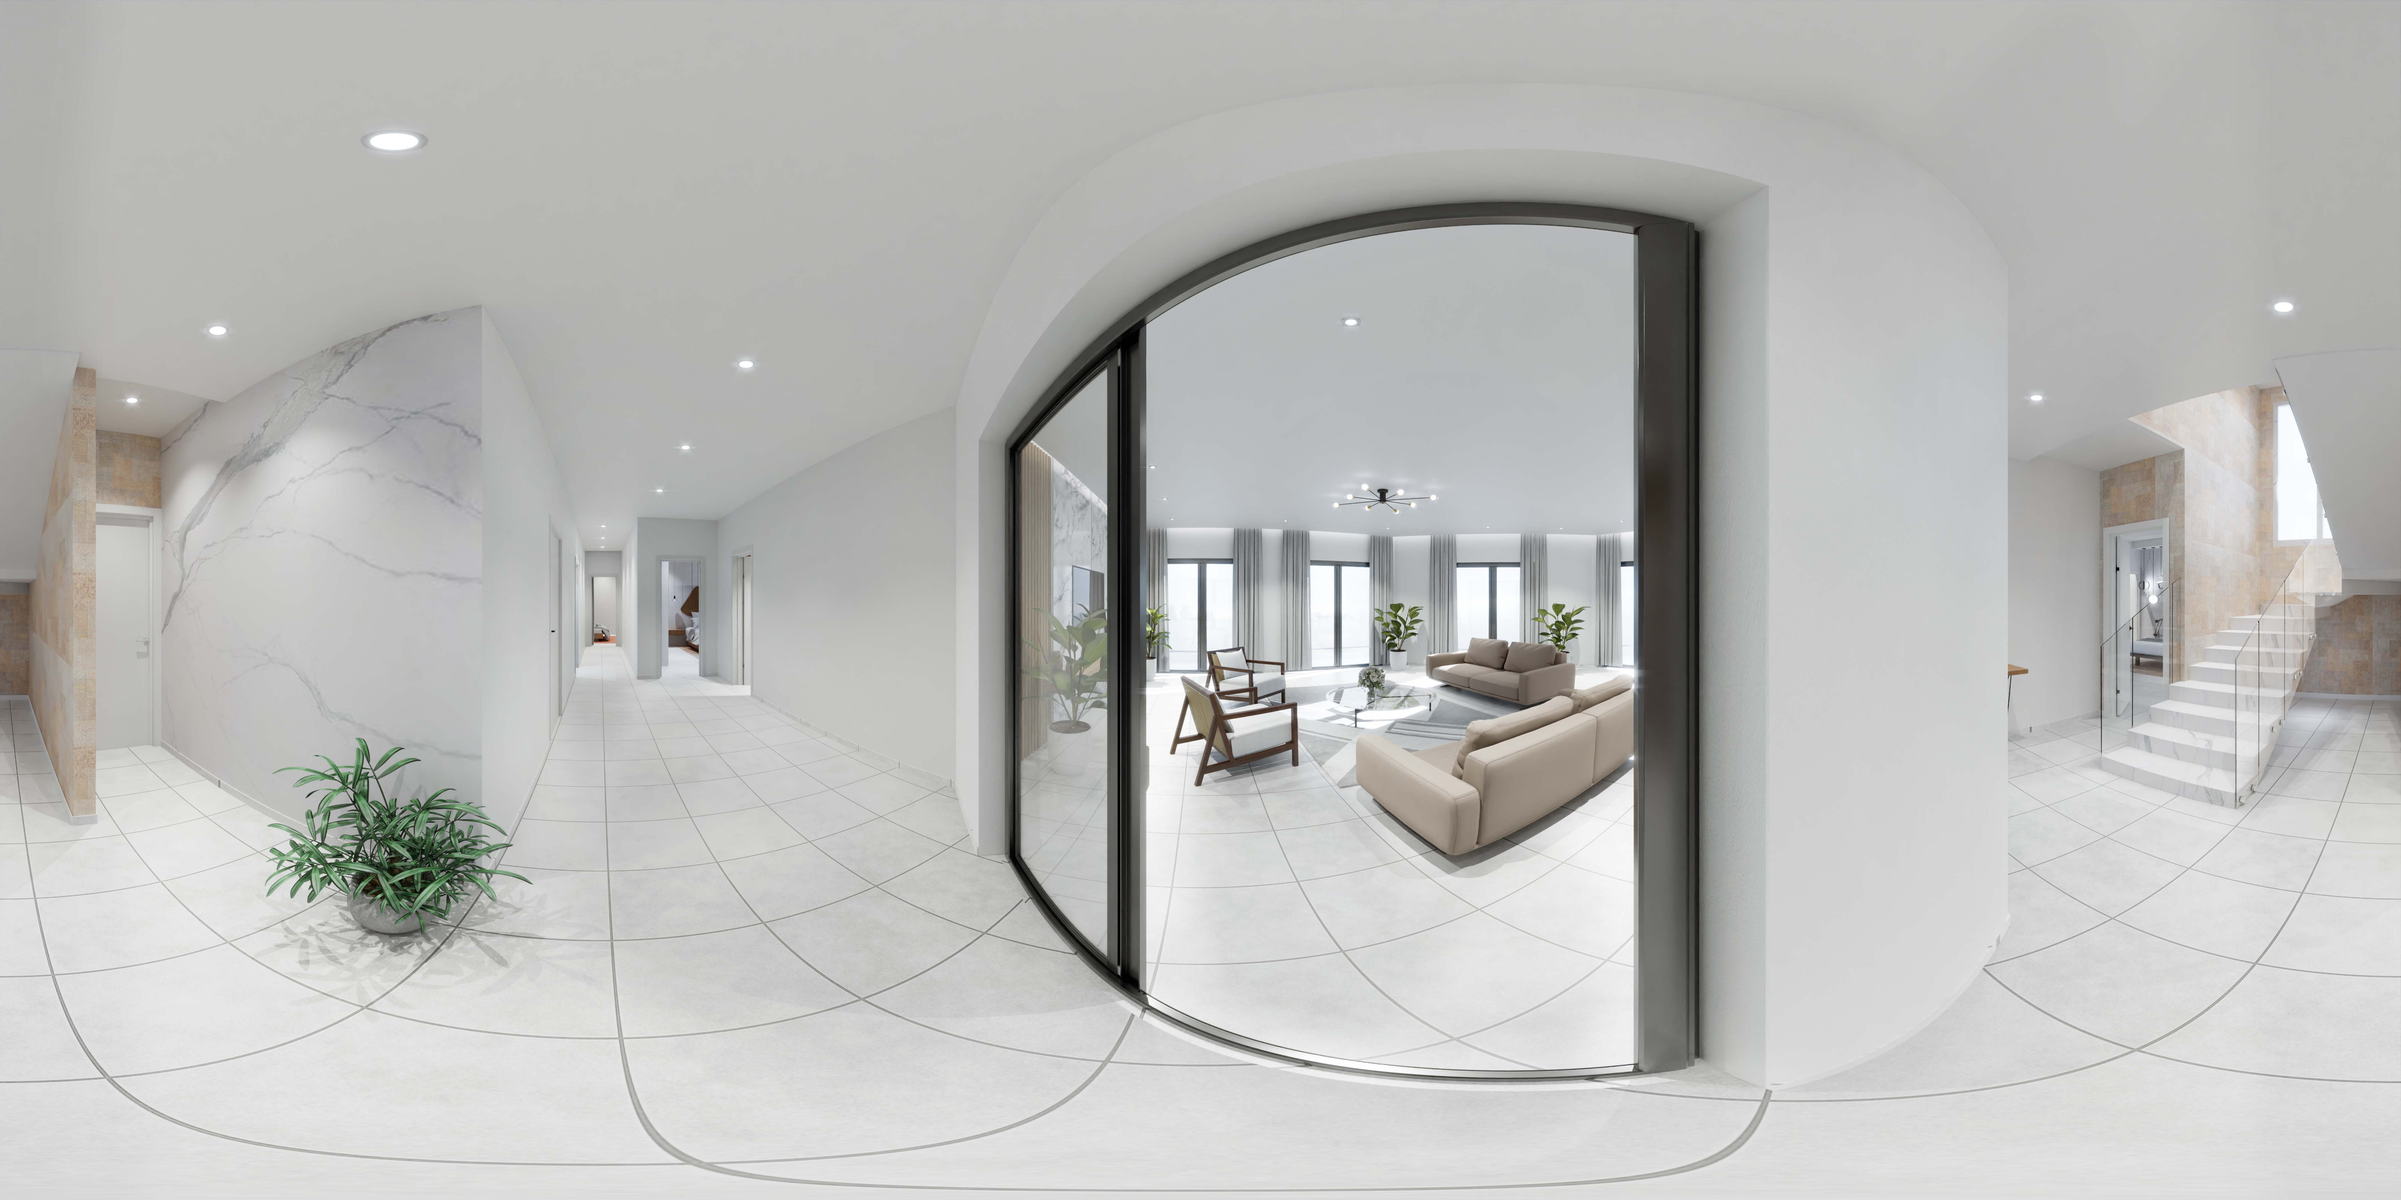
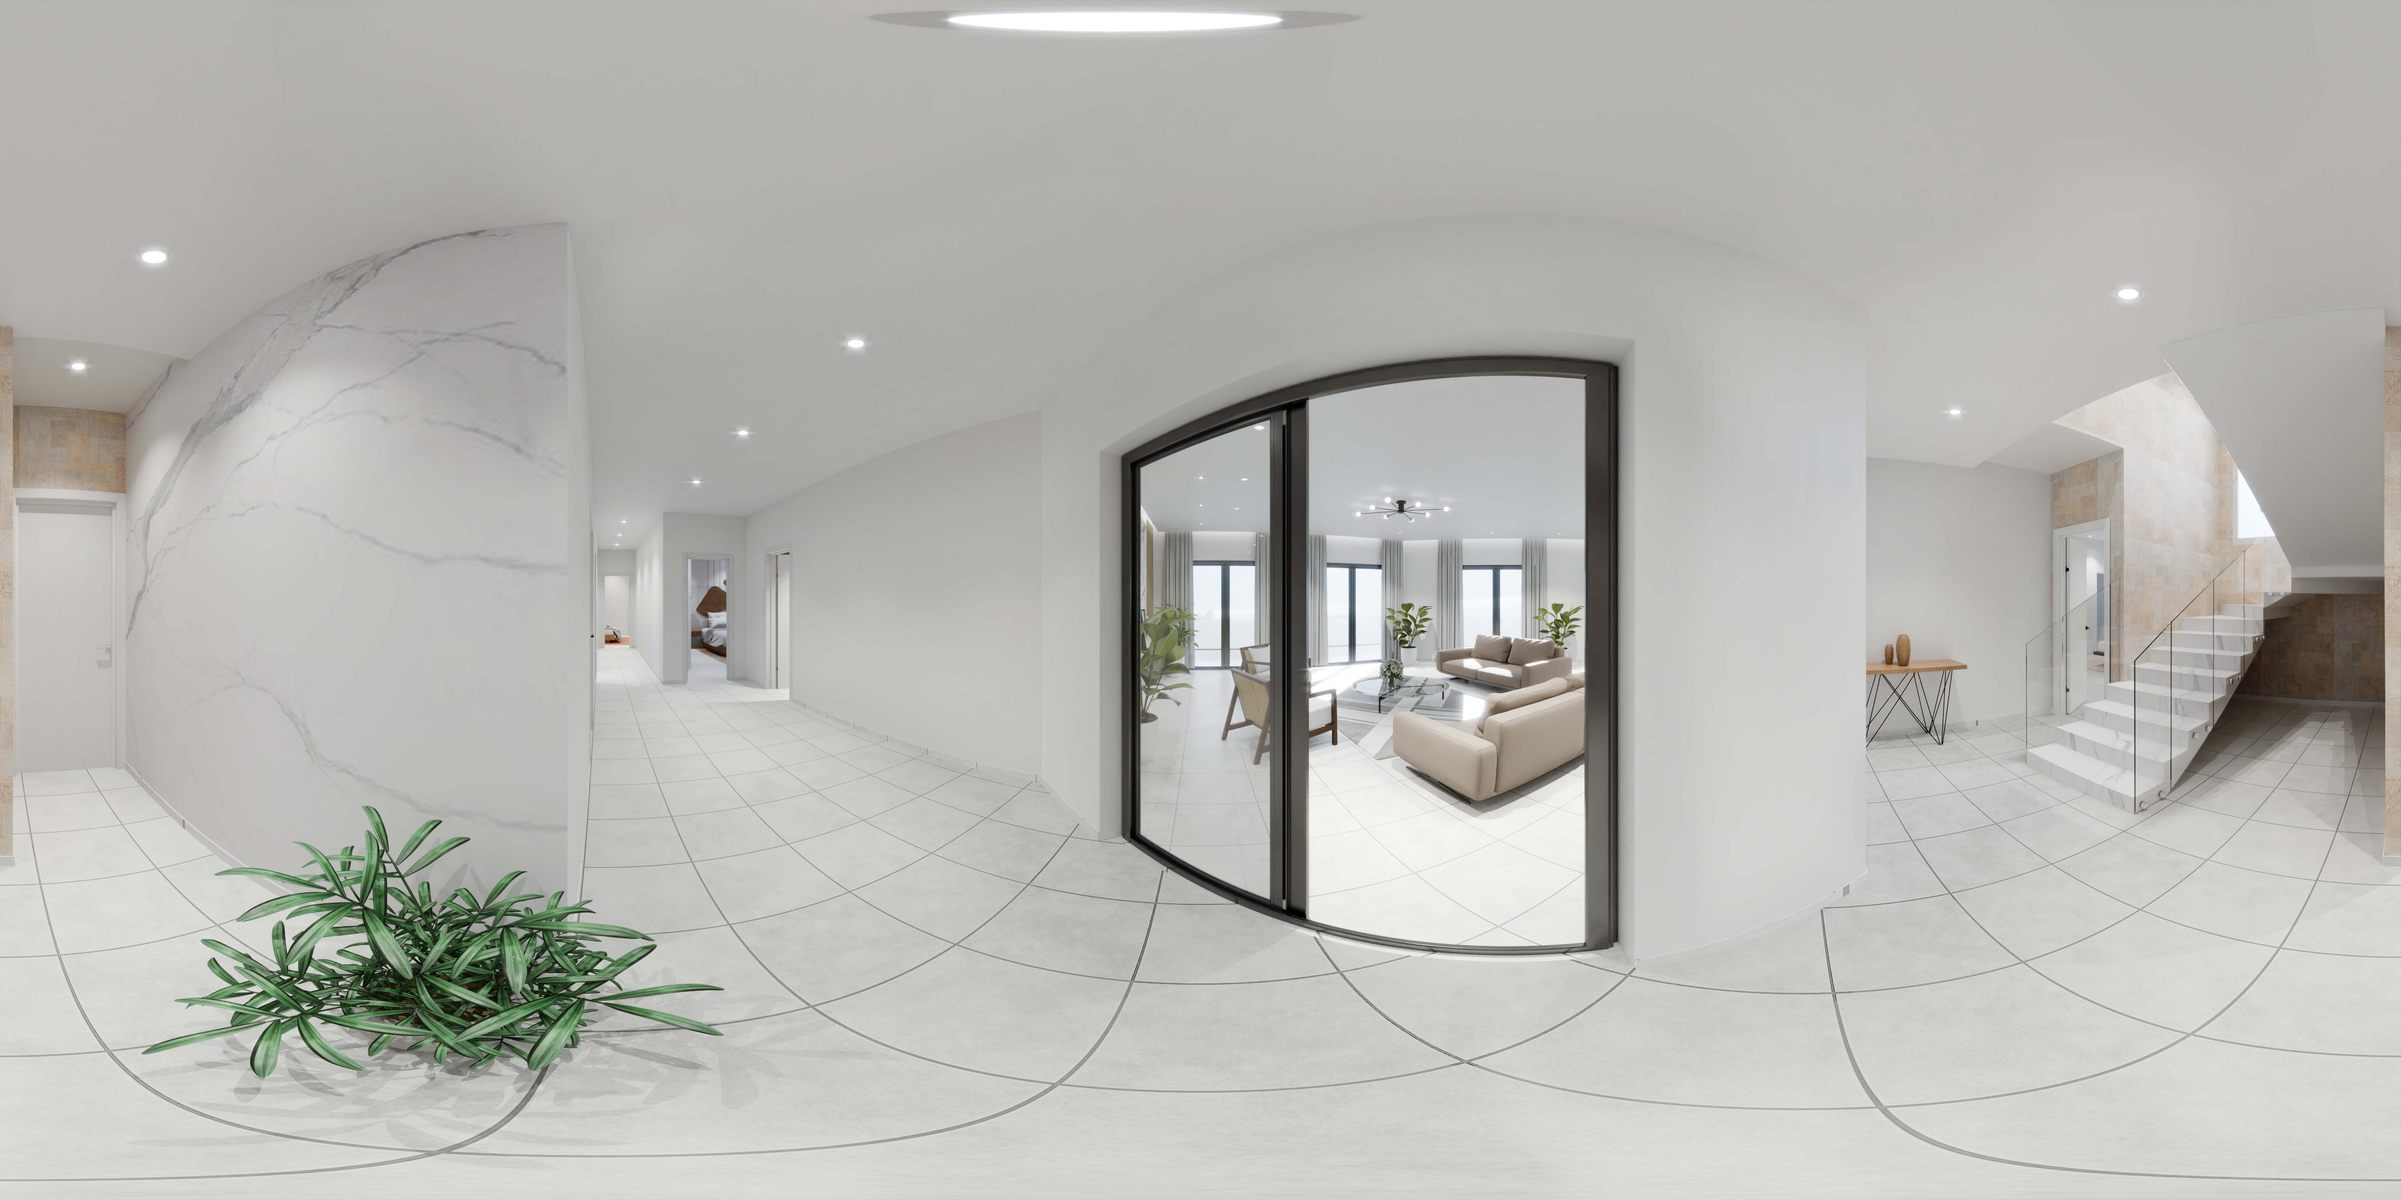
first commit-2

diff --git a/index.html b/index.html
@@ -58,16 +58,26 @@
             <img id="Scene-3" src="./Style/Images/Scene-3.jpg">
             <img id="Scene-5" src="./Style/Images/Scene-5.jpg">
             <img id="Scene-6" src="./Style/Images/Scene-6.jpg">
+            <img id="Scene-19" src="./Style/Images/Scene-19.jpg">
             <img id="Scene-7" src="./Style/Images/Scene-7.jpg">
             <img id="Scene-9" src="./Style/Images/Scene-9.jpg">
             <img id="Scene-2" src="./Style/Images/Scene-2.jpg">
             <img id="Scene-1" src="./Style/Images/Scene-1.jpg">
+            <img id="Scene-20" src="./Style/Images/Scene-20.jpg">
+            <img id="Scene-21" src="./Style/Images/Scene-21.jpg">
             <img id="Scene-0" src="./Style/Images/Scene-0.jpg">
             <img id="Scene-8" src="./Style/Images/Scene-8.jpg">
             <img id="Scene-10" src="./Style/Images/Scene-10.jpg">
             <img id="Scene-11" src="./Style/Images/Scene-11.jpg">
             <img id="Scene-12" src="./Style/Images/Scene-12.jpg">
             <img id="Scene-13" src="./Style/Images/Scene-13.jpg">
+            <img id="Scene-14" src="./Style/Images/Scene-14.jpg">
+            <img id="Scene-15" src="./Style/Images/Scene-15.jpg">
+            <img id="Scene-16" src="./Style/Images/Scene-16.jpg">
+            <img id="Scene-17" src="./Style/Images/Scene-17.jpg">
+            <img id="Scene-18" src="./Style/Images/Scene-18.jpg">
+            <img id="Scene-22" src="./Style/Images/Scene-22.jpg">
+            <img id="Scene-23" src="./Style/Images/Scene-23.jpg">
 
         </a-assets>
 
@@ -121,6 +131,8 @@
                 the_dote="Name_of_dote: Dote-3 ; Group_to_activate: Group-3 ; The_rotation: 0">
             </a-plane>
 
+
+
             <a-plane data-clickable class="Dote" material="src: #Arrow-1; transparent:true"
                 position="0.3161 -1.32277 -5.51905" rotation="-80.8414801039835 -65.88556277768363 1.1694068598620102"
                 the_dote="Name_of_dote: Dote-1 ; Group_to_activate: Group-1 ; The_rotation: 0">
@@ -133,16 +145,18 @@
 
 
             <a-plane data-clickable class="Dote" material="src: #Arrow-1; transparent:true"
-                position="-4.05265 -0.94886 -1.16242"
+                position="-4.66797 -0.94886 -2.21453"
                 rotation="-88.07278043632962 -149.2698295764577 -123.74398684558443"
                 the_dote="Name_of_dote: Dote-2 ; Group_to_activate: Group-2 ; The_rotation:  0">
             </a-plane>
 
             <a-plane data-clickable class="Dote" material="src: #Arrow-1; transparent:true"
-                position="-1.12491 -0.40403 7.31238"
+                position="-1.67936 -0.40403 6.59455"
                 rotation="-88.07278043632962 -149.2698295764577 -123.74398684558443"
                 the_dote="Name_of_dote: Dote-4 ; Group_to_activate: Group-4 ; The_rotation:  0">
             </a-plane>
+
+
 
         </a-entity>
 
@@ -169,7 +183,7 @@
             <a-plane data-clickable class="Dote" material="src: #Arrow-1; transparent:true"
                 position="-2.08959 -1.21727 4.78251"
                 rotation="-83.78762908654619 152.28473349443613 -151.38060609371968"
-                the_dote="Name_of_dote: Dote-7 ; Group_to_activate: Group-7 ; The_rotation: 0">
+                the_dote="Name_of_dote: Dote-19 ; Group_to_activate: Group-19 ; The_rotation: 0">
             </a-plane>
 
 
@@ -213,21 +227,15 @@
                 the_dote="Name_of_dote: Dote-4 ; Group_to_activate: Group-4 ; The_rotation: 0">
             </a-plane>
 
-
-            <a-plane data-clickable class="Dote" material="src: #Arrow-1; transparent:true" position="2.67948 -1 0.3136"
+            <a-plane data-clickable class="Dote" material="src: #Arrow-1; transparent:true" position="4.01139 -1 0.3136"
                 rotation="-84.11364207197563 -45.10610242167406 -18.52601734776004"
-                the_dote="Name_of_dote: Dote-8 ; Group_to_activate: Group-8 ; The_rotation: 0">
+                the_dote="Name_of_dote: Dote-13 ; Group_to_activate: Group-13 ; The_rotation: 0">
             </a-plane>
 
             <a-plane data-clickable class="Dote" material="src: #Arrow-1; transparent:true"
                 position="-0.07891 -1 6.43495" rotation="-81.24025872939455 144.21118520324768 151.9999734702561"
                 the_dote="Name_of_dote: Dote-8 ; Group_to_activate: Group-8 ; The_rotation: 0">
             </a-plane>
-
-
-
-
-
 
         </a-entity>
 
@@ -239,16 +247,10 @@
                 the_dote="Name_of_dote: Dote-7 ; Group_to_activate: Group-7 ; The_rotation: 0">
             </a-plane>
 
-
-
             <a-plane data-clickable class="Dote" material="src: #Arrow-1; transparent:true"
                 position="-1.24762 -1.7937 4.23467" rotation="-85.62854248230153 -43.51213383562011 112.84518366660589"
                 the_dote="Name_of_dote: Dote-9 ; Group_to_activate: Group-9 ; The_rotation: 0">
             </a-plane>
-
-
-
-
 
         </a-entity>
 
@@ -273,10 +275,8 @@
 
             <a-plane data-clickable class="Dote" material="src: #Arrow-1; transparent:true"
                 position="0.17115 -1.15573 3.02983" rotation="-80.53150993681773 153.48508007523517 -161.424556242363"
-                the_dote="Name_of_dote: Dote-9 ; Group_to_activate: Group-9 ; The_rotation: 0">
+                the_dote="Name_of_dote: Dote-11 ; Group_to_activate: Group-11 ; The_rotation: 0">
             </a-plane>
-
-
 
             <a-plane data-clickable class="Dote" material="src: #Arrow-1; transparent:true"
                 position="0.73494 -1.15573 -3.45368"
@@ -290,10 +290,9 @@
         <a-entity scale="0 0 0" class="groups" id="Group-11" visible="false">
 
             <a-plane data-clickable class="Dote" material="src: #Arrow-1; transparent:true"
-                position="1.83893 -1 0.20975" rotation="-88.25841876195203 -87.30788177982998 92.12301909010941"
-                the_dote="Name_of_dote: Dote-8 ; Group_to_activate: Group-8 ; The_rotation: 0">
+                position="-0.26727 -1 -2.54781" rotation="-73.23661128921208 -6.041839949654531 10.603156956691015"
+                the_dote="Name_of_dote: Dote-10 ; Group_to_activate: Group-10 ; The_rotation: 0">
             </a-plane>
-
 
 
 
@@ -306,16 +305,177 @@
                 the_dote="Name_of_dote: Dote-11 ; Group_to_activate: Group-11 ; The_rotation: 0">
             </a-plane>
 
-
-
-
         </a-entity>
         <!-- Group13 -->
         <a-entity scale="0 0 0" class="groups" id="Group-13" visible="false">
             <a-plane data-clickable class="Dote" material="src: #Arrow-1; transparent:true"
-                position="-0.29707 -0.67581 -2.03962" rotation="-89.6913862075742 99.16638926565263 -12.059042714118435"
-                the_dote="Name_of_dote: Dote-9 ; Group_to_activate: Group-9 ; The_rotation: 0">
+                position="3.5506 -0.40337 0.00654" rotation="-73.91499331864698 -90.17725441784513 177.27772547583774"
+                the_dote="Name_of_dote: Dote-14 ; Group_to_activate: Group-14 ; The_rotation: 0">
             </a-plane>
+
+            <a-plane data-clickable class="Dote" material="src: #Arrow-1; transparent:true"
+                position="-3.27648 -0.40337 -0.07122" rotation="-82.90412816645447 90.3978431689705 -3.2870588706655326"
+                the_dote="Name_of_dote: Dote-7 ; Group_to_activate: Group-7 ; The_rotation: 0">
+            </a-plane>
+
+        </a-entity>
+
+        <!-- Group-14 -->
+        <a-entity scale="0 0 0" class="groups" id="Group-14" visible="false">
+
+            <a-plane data-clickable class="pintings clickable" position="0.17583 -0.89063 4.03852"
+                rotation="-77.03990513329049 -170.9734708560133 -9.042419922754652"
+                material="src: #Arrow-1; transparent:true"
+                the_dote="Name_of_dote: Dote-15  ; Group_to_activate: Group-15 ; The_rotation: 0">
+            </a-plane>
+
+            <a-plane data-clickable class="pintings clickable" position="-3.27196 -0.36293 0.12787"
+                rotation="-87.83901365591625 -68.94286557250169 -111.31309452242607"
+                material="src: #Arrow-1; transparent:true"
+                the_dote="Name_of_dote: Dote-13  ; Group_to_activate: Group-13 ; The_rotation: 0">
+            </a-plane>
+
+        </a-entity>
+
+        <!-- Group-15 -->
+        <a-entity scale="0 0 0" class="groups" id="Group-15" visible="false">
+
+            <a-plane data-clickable class="pintings clickable" position="2.27073 -0.13901 -0.12767"
+                rotation="-87.79260407451065 -114.01344461087766 -66.21272167870332"
+                material="src: #Arrow-1; transparent:true"
+                the_dote="Name_of_dote: Dote-16  ; Group_to_activate: Group-16 ; The_rotation: 0">
+            </a-plane>
+
+            <a-plane data-clickable class="pintings clickable" position="-0.64846 -0.67393 -4.4586"
+                rotation="-87.79260407451065 -114.01344461087766 -66.21272167870332"
+                material="src: #Arrow-1; transparent:true"
+                the_dote="Name_of_dote: Dote-14  ; Group_to_activate: Group-14 ; The_rotation: 0">
+            </a-plane>
+
+            <a-plane data-clickable class="pintings clickable" position="-1.1192 -0.67393 4.46607"
+                rotation="-87.79260407451065 -114.01344461087766 -66.21272167870332"
+                material="src: #Arrow-1; transparent:true"
+                the_dote="Name_of_dote: Dote-18  ; Group_to_activate: Group-18 ; The_rotation: 0">
+            </a-plane>
+
+
+        </a-entity>
+
+
+        <!-- Group-16 -->
+        <a-entity scale="0 0 0" class="groups" id="Group-16" visible="false">
+
+            <a-plane data-clickable class="pintings clickable" position="-0.1885 -0.78221 4.20649"
+                rotation="-87.43393249475876 101.69198722658929 52.456005017612256"
+                material="src: #Arrow-1; transparent:true"
+                the_dote="Name_of_dote: Dote-17  ; Group_to_activate: Group-17 ; The_rotation: 0">
+            </a-plane>
+
+
+            <a-plane data-clickable class="pintings clickable" position="-3.9556 -0.78221 -0.52592"
+                rotation="-81.30786774922 163.13598117641877 -9.159876270756472"
+                material="src: #Arrow-1; transparent:true"
+                the_dote="Name_of_dote: Dote-15  ; Group_to_activate: Group-15 ; The_rotation: 0">
+            </a-plane>
+
+
+        </a-entity>
+
+        <!-- Group-17 -->
+        <a-entity scale="0 0 0" class="groups" id="Group-17" visible="false">
+
+            <a-plane data-clickable class="pintings clickable" position="0.08704 -0.35708 -3.70536"
+                rotation="-88.30310946997221 -86.26681746607727 -10.820307961045597"
+                material="src: #Arrow-1; transparent:true"
+                the_dote="Name_of_dote: Dote-16  ; Group_to_activate: Group-16 ; The_rotation: 0">
+            </a-plane>
+        </a-entity>
+
+        <!-- Group-18 -->
+        <a-entity scale="0 0 0" class="groups" id="Group-18" visible="false">
+
+            <a-plane data-clickable class="pintings clickable" position="1.58048 -0.52086 -4.71322"
+                rotation="-89.64383071057834 -124.03676827889626 35.14924185789061"
+                material="src: #Arrow-1; transparent:true"
+                the_dote="Name_of_dote: Dote-15  ; Group_to_activate: Group-15 ; The_rotation: 0">
+            </a-plane>
+
+        </a-entity>
+
+        <!-- Group-19 -->
+        <a-entity scale="0 0 0" class="groups" id="Group-19" visible="false">
+
+            <a-plane data-clickable class="Dote" material="src: #Arrow-1; transparent:true"
+                position="1.09692 -0.67581 -3.65126" rotation="-89.6913862075742 99.16638926565263 -12.059042714118435"
+                the_dote="Name_of_dote: Dote-4 ; Group_to_activate: Group-4 ; The_rotation: 0">
+            </a-plane>
+
+
+            <a-plane data-clickable class="Dote" material="src: #Arrow-1; transparent:true"
+                position="-5.25631 -0.68158 0.33155" rotation="-78.98165910098885 154.99940752776595 -18.95172498954224"
+                the_dote="Name_of_dote: Dote-20 ; Group_to_activate: Group-20 ; The_rotation: 0">
+            </a-plane>
+
+
+
+        </a-entity>
+        <!-- Group-20 -->
+        <a-entity scale="0 0 0" class="groups" id="Group-20" visible="false">
+
+            <a-plane data-clickable class="pintings clickable" position="-2.25099 -0.49754 2.6086"
+                rotation="-84.87281115052397 143.87199418853024 -119.21876617964118"
+                material="src: #Arrow-1; transparent:true"
+                the_dote="Name_of_dote: Dote-21  ; Group_to_activate: Group-21 ; The_rotation: 0">
+            </a-plane>
+            <a-plane data-clickable class="pintings clickable" position="3.73815 -0.49754 -1.40096"
+                rotation="-84.87281115052397 143.87199418853024 -119.21876617964118"
+                material="src: #Arrow-1; transparent:true"
+                the_dote="Name_of_dote: Dote-19  ; Group_to_activate: Group-19 ; The_rotation: 0">
+            </a-plane>
+
+        </a-entity>
+        <!-- Group-21 -->
+        <a-entity scale="0 0 0" class="groups" id="Group-21" visible="false">
+
+            <a-plane data-clickable class="pintings clickable" position="0.13823 -0.49754 2.86335"
+                rotation="-85.36956555890241 -157.8292460779171 172.4620152077632"
+                material="src: #Arrow-1; transparent:true"
+                the_dote="Name_of_dote: Dote-22  ; Group_to_activate: Group-22 ; The_rotation: 0">
+            </a-plane>
+
+            <a-plane data-clickable class="pintings clickable" position="2.13898 -0.49754 -3.91764"
+                rotation="-78.29009904226595 -8.632755099236114 23.02316308174187"
+                material="src: #Arrow-1; transparent:true"
+                the_dote="Name_of_dote: Dote-20  ; Group_to_activate: Group-20 ; The_rotation: 0">
+            </a-plane>
+
+        </a-entity>
+        <!-- Group-22 -->
+        <a-entity scale="0 0 0" class="groups" id="Group-22" visible="false">
+
+            <a-plane data-clickable class="pintings clickable" position="-1.08863 -0.49754 2.93169"
+                rotation="-85.36956555890241 -157.8292460779171 172.4620152077632"
+                material="src: #Arrow-1; transparent:true"
+                the_dote="Name_of_dote: Dote-23  ; Group_to_activate: Group-23 ; The_rotation: 0">
+            </a-plane>
+
+            <a-plane data-clickable class="pintings clickable" position="-0.63676 -0.49754 -3.37131"
+                rotation="-70.94649898207419 -5.354863553292674 19.630107018977135"
+                material="src: #Arrow-1; transparent:true"
+                the_dote="Name_of_dote: Dote-21  ; Group_to_activate: Group-21 ; The_rotation: 0">
+            </a-plane>
+
+
+        </a-entity>
+        <!-- Group-23 -->
+        <a-entity scale="0 0 0" class="groups" id="Group-23" visible="false">
+
+            <a-plane data-clickable class="pintings clickable" position="1.20111 -0.21247 -3.12462"
+                rotation="-85.36956555890241 -157.8292460779171 172.4620152077632"
+                material="src: #Arrow-1; transparent:true"
+                the_dote="Name_of_dote: Dote-22  ; Group_to_activate: Group-22 ; The_rotation: 0">
+            </a-plane>
+
         </a-entity>
 
         <!-- ############################################################ -->
@@ -407,6 +567,36 @@
                                 break;
                             case 'Dote-13':
                                 the_sky.setAttribute('src', '#Scene-13')
+                                break;
+                            case 'Dote-14':
+                                the_sky.setAttribute('src', '#Scene-14')
+                                break;
+                            case 'Dote-15':
+                                the_sky.setAttribute('src', '#Scene-15')
+                                break;
+                            case 'Dote-16':
+                                the_sky.setAttribute('src', '#Scene-16')
+                                break;
+                            case 'Dote-17':
+                                the_sky.setAttribute('src', '#Scene-17')
+                                break;
+                            case 'Dote-18':
+                                the_sky.setAttribute('src', '#Scene-18')
+                                break;
+                            case 'Dote-19':
+                                the_sky.setAttribute('src', '#Scene-19')
+                                break;
+                            case 'Dote-20':
+                                the_sky.setAttribute('src', '#Scene-20')
+                                break;
+                            case 'Dote-21':
+                                the_sky.setAttribute('src', '#Scene-21')
+                                break;
+                            case 'Dote-22':
+                                the_sky.setAttribute('src', '#Scene-22')
+                                break;
+                            case 'Dote-23':
+                                the_sky.setAttribute('src', '#Scene-23')
                                 break;
                             default:
                                 break;
